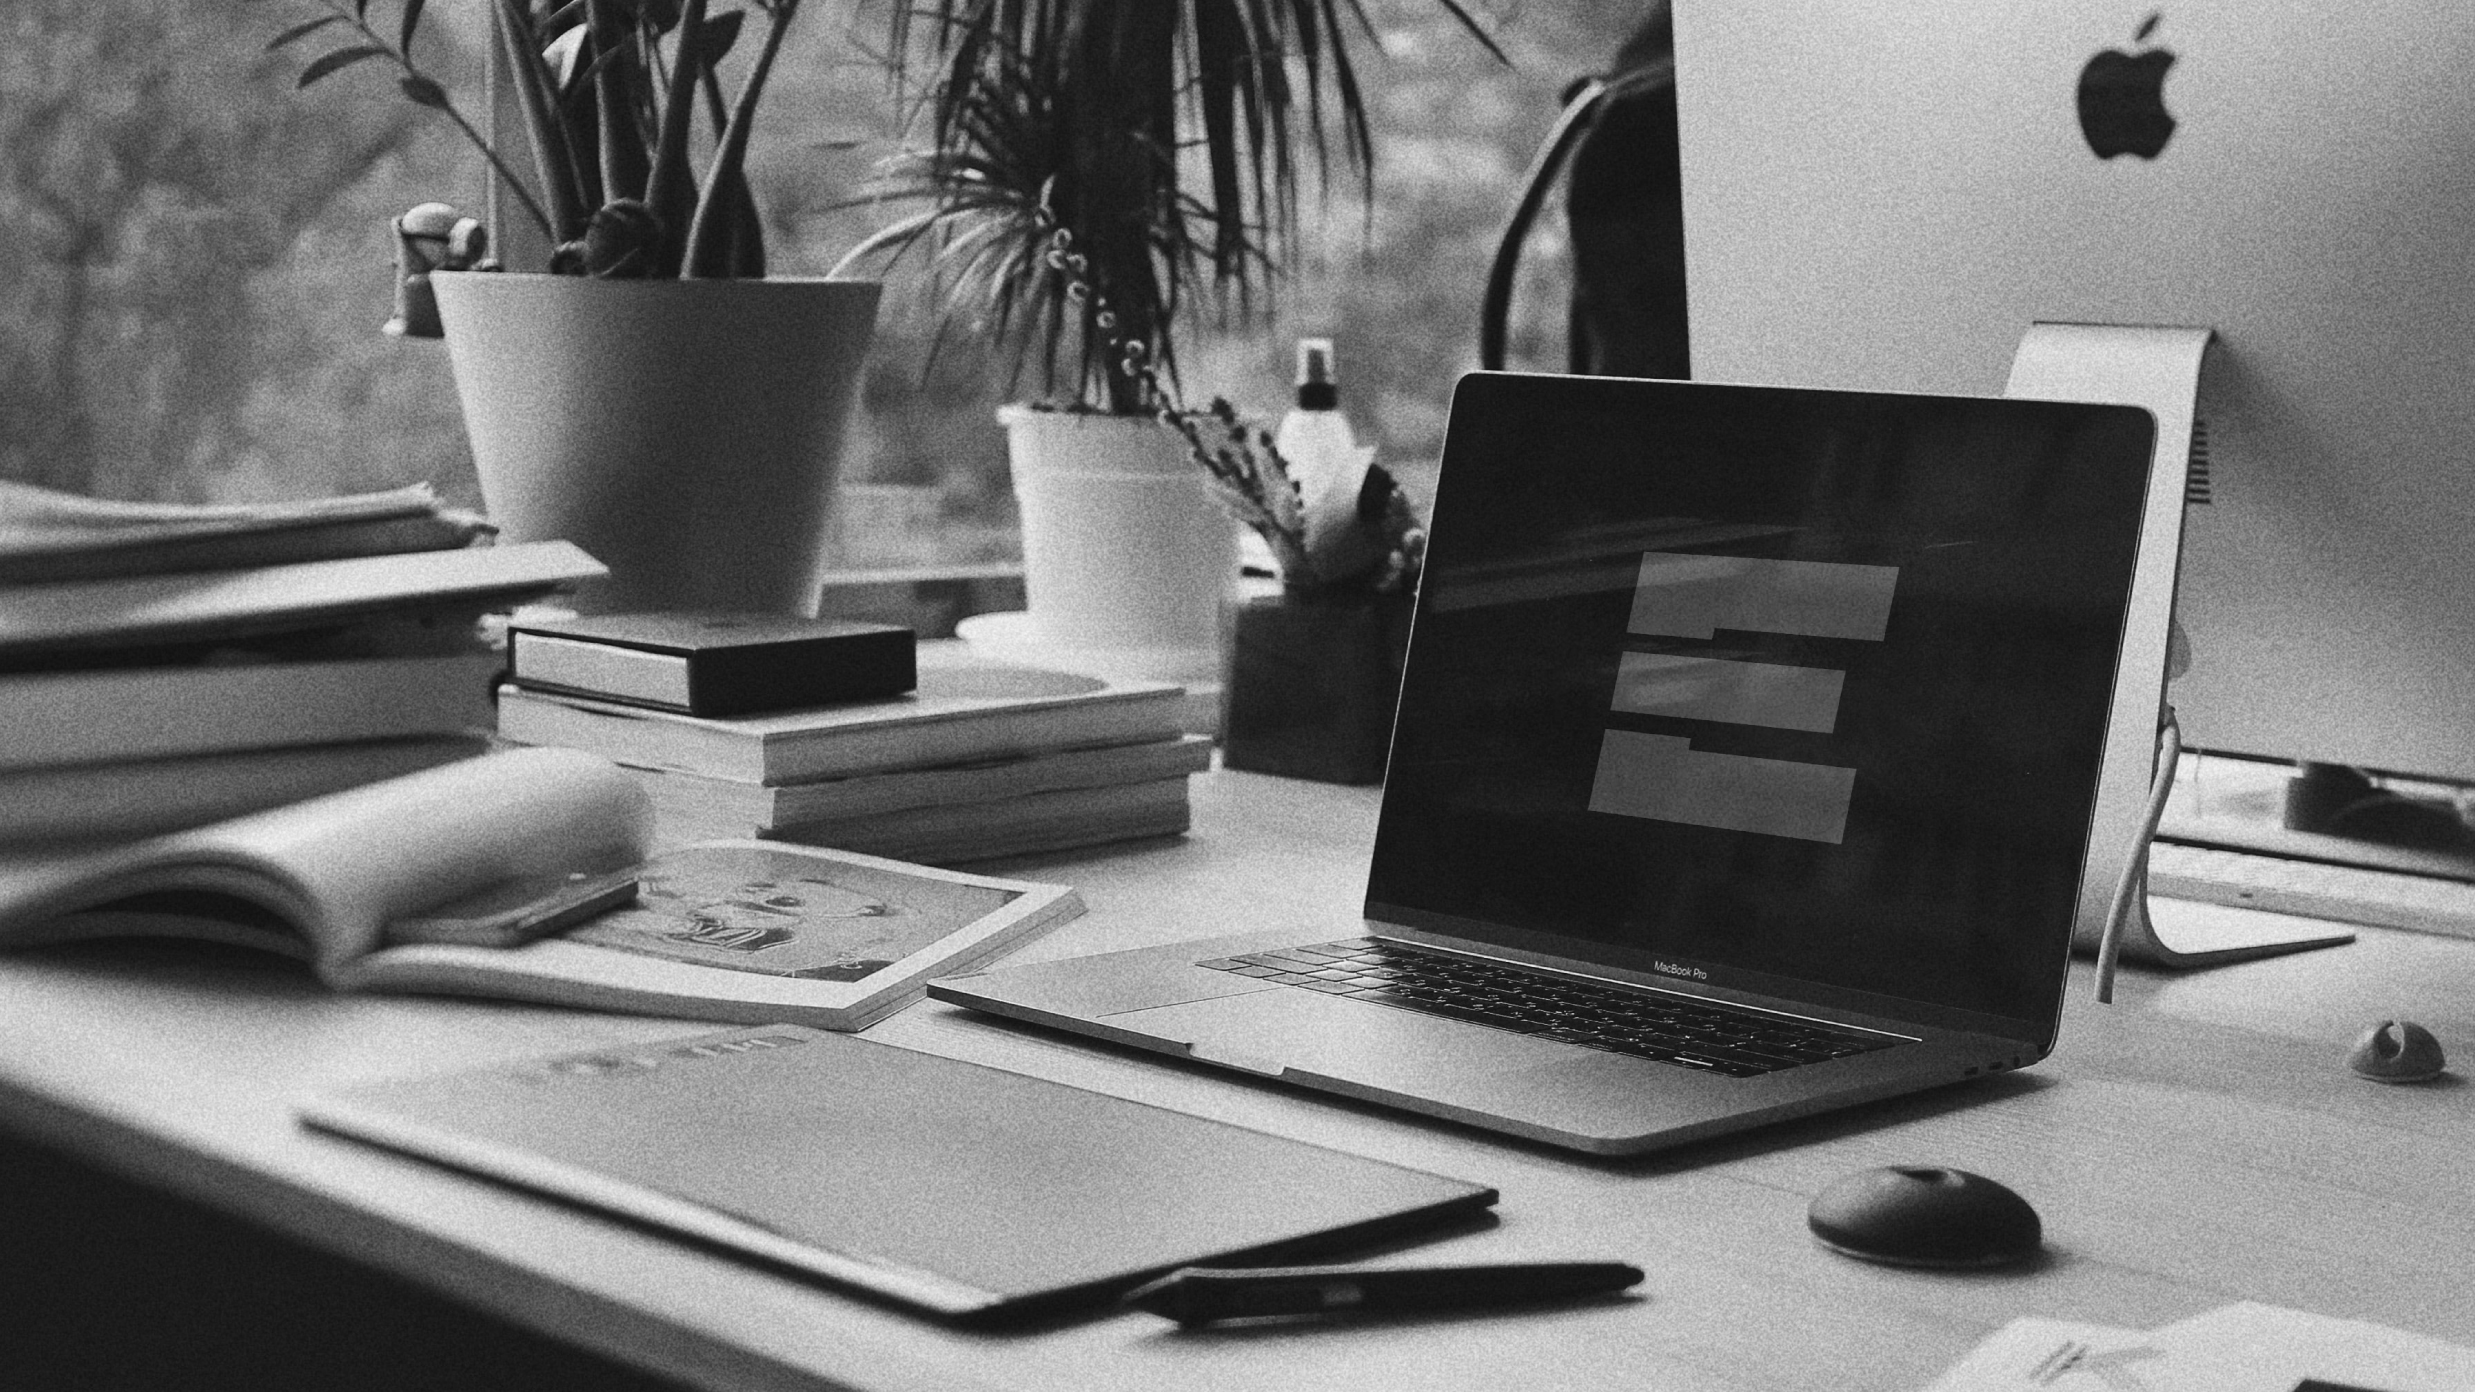
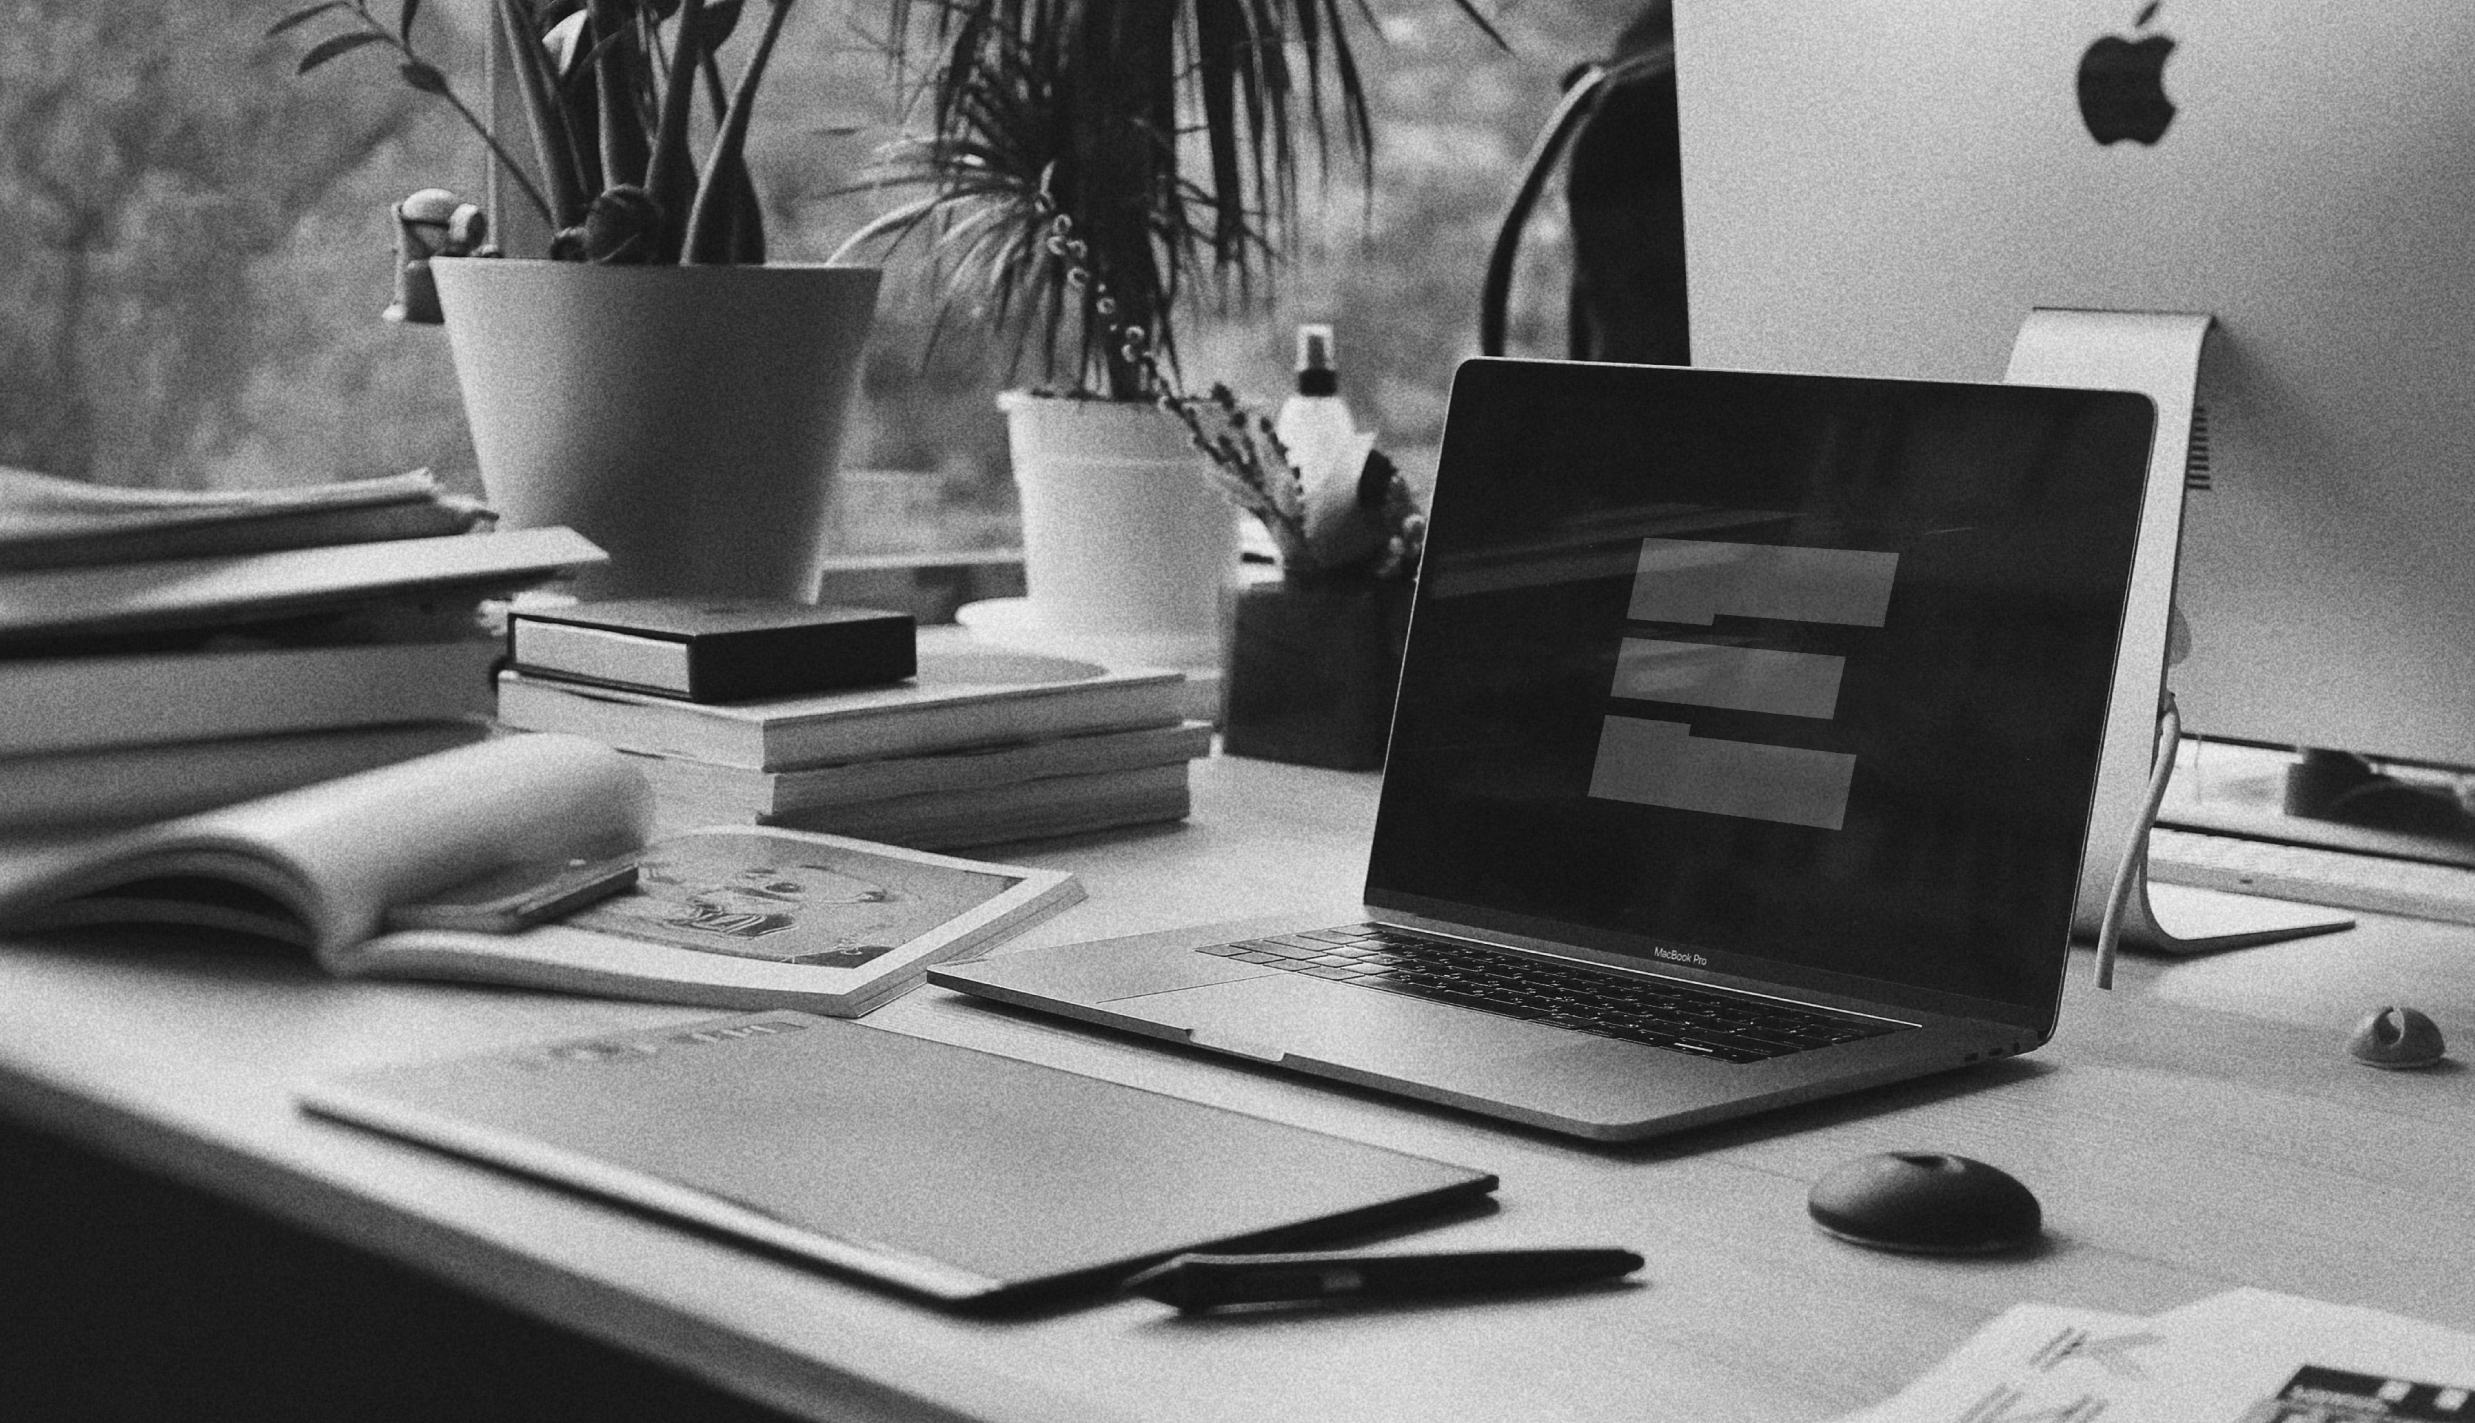
er

diff --git a/my-app/src/screens/Hjemmeside.js b/my-app/src/screens/Hjemmeside.js
@@ -52,7 +52,7 @@ function Hjemmeside() {
             <div className="each-slide">
               <img
                 className="shadowPhoto"
-                src="/Loginbakgrunn.jpg"
+                src="/BakgrunnSecond.jpg"
                 width="100%"
                 alt="second slide"
               />
